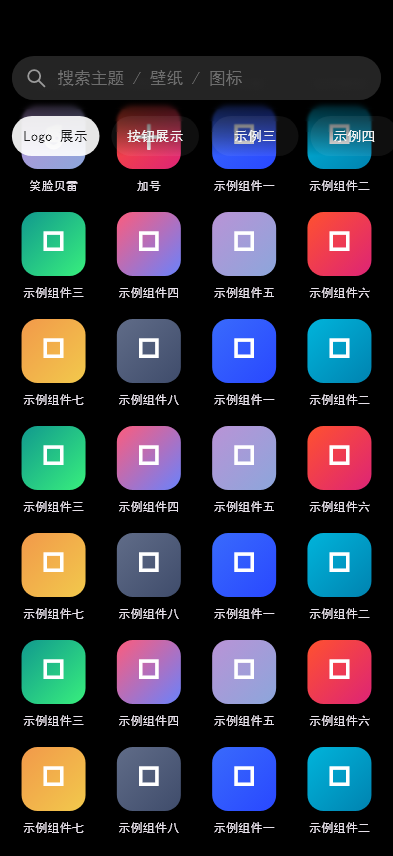
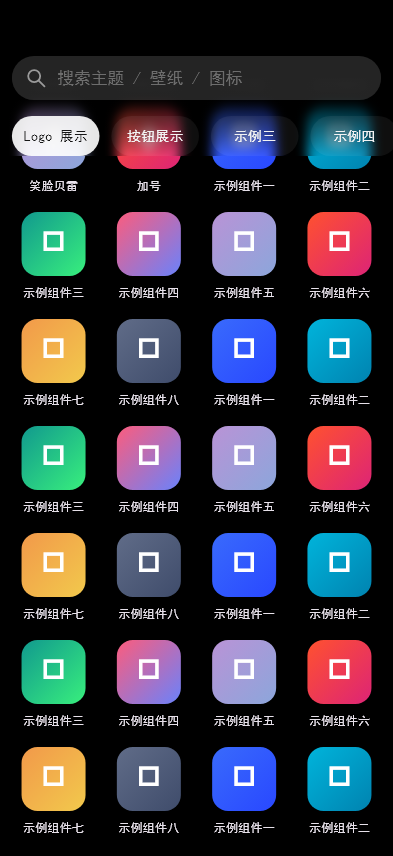
feat(topbar): 头部区材质改恒定 σ —— 整条栏均匀磨砂，糊到栏底才切回清晰
上一轮把实测 σ(y) 阶梯按 栏高/128.9 拉伸，结果顶部过糊、胶囊行附近已接近
锐利，与真机截图不符。用户提供的分类页截图（881×1920 亮/暗）实测：搜索栏行
与胶囊行后方的模糊强度**一致**，一直糊到栏底才切回清晰内容，没有「越往下越
清晰 / 到栏底渐隐」的过渡。

改动：
- 新增 `MiTopBar.uniformBlurBands(palette, height, {scale})`：头部区形态用
  **一段恒定 σ = 5.37dp**（栏顶实测值）铺满整条顶栏；深色配方仍按 scale 跳过
  被不透明叠色盖住的段（156dp 栏 → 0…77dp，零视觉差异）。
- `visibleBlurBands` 还原为无 scale 版，只服务纯标题形态（那条 σ(y) 阶梯是
  「我的 / 首页」录屏的实测规律，两形态各走各的）。
- 叠色梯度仍按比例随盒高拉伸。

验证：`dart analyze` 0 error；`flutter test` 111 项全绿。golden 仅
showcase_sticky_{light,dark}.png 与 adaptive_desktop_showcase.png 变化
（后者与上一轮比 max diff 5、137px>2，纯胶囊 AA）；静态 showcase_*.png 未变。
性能预算重标：分类页 6 层 / 53,953dp² → 2 层 / 71,294dp²。

diff --git a/lib/src/components/navigation/top_bar/top_bar.dart b/lib/src/components/navigation/top_bar/top_bar.dart
@@ -22,9 +22,13 @@ import 'top_bar_metrics.dart';
 /// 栏顶全强度模糊、越往下越锐利，栏底完全清晰。
 ///
 /// 材质是**盖在整条顶栏上的底**（不占布局高度）：无头部区时只到实测材质盒
-/// [MiTopBarMetrics.scrimHeight]（128.9dp）；有头部区时铺满整条顶栏，模糊段与
-/// 叠色按 `栏高 / 128.9` 等比拉伸 —— 头部区既然在顶栏内，就被顶栏同一条曲线
-/// 一起磨，而不是「零件各自一块玻璃、间隙与四周锐利」。
+/// [MiTopBarMetrics.scrimHeight]（128.9dp）；有头部区时铺满整条顶栏。
+///
+/// 两种形态的模糊规律不同，都是实测的：
+///  * **纯标题形态** → σ 沿 y 递减的阶梯（0…119dp 归零，见 [blurBands]）；
+///  * **头部区形态** → **整条栏一个恒定 σ**（[uniformBlurBands]）：分类页截图
+///    里搜索栏行与胶囊行后方的模糊强度一致，一直糊到栏底才切回清晰内容，
+///    没有「越往下越清晰」的过渡。头部区既然在顶栏内，整条栏就是同一块材质。
 ///
 /// 实现是 **8 段定 σ 阶梯**（[MiTopBarPalette.blurBands]）：每段
 /// `ClipRect → BackdropFilter(σ_i)`，σ_i 取实测 σ(y) 曲线在该段中点的值。
@@ -328,10 +332,10 @@ class MiTopBar extends StatelessWidget {
   ///    首版一致；
   ///  * **有头部区**：铺满**整条顶栏** —— 头部区在顶栏内，就该被顶栏的材质
   ///    一起盖住（否则搜索栏 / 胶囊之间与四周是锐利的内容，只有零件自己是
-  ///    玻璃，视觉上割裂）。此时 blurBands 与叠色梯度按
-  ///    `materialHeight / scrimHeight` **等比拉伸**，保持「顶部最糊、到栏底
-  ///    渐隐为锐利」的实测形状（拉伸是推导：参考录屏的顶栏不内嵌组件，
-  ///    155.7dp 以上的 σ 无可测样本）。
+  ///    玻璃，视觉上割裂）。这一形态的模糊是**恒定 σ**（见
+  ///    [uniformBlurBands]，实测自分类页截图：搜索栏行与胶囊行后方的模糊
+  ///    强度一致、糊到栏底才切回清晰）；叠色梯度是按盒高比例的 stop，随盒
+  ///    拉高自动等比拉伸。
   double materialExtent(BuildContext context) {
     if (!showSurface) return 0;
     if (!hasHeaderSlot) return MiTopBarMetrics.scrimHeight;
@@ -348,29 +352,50 @@ class MiTopBar extends StatelessWidget {
   /// 段从 8 段 / 119dp 降到 5 段 / 45.4dp，模糊面积 85,680 → 32,688 dp²
   ///（−62%）；每段在滚动时都要重算一次全宽高斯，这是丢帧的主因。
   /// 裁剪后段的 σ 仍取原段值（段变窄，σ 沿 y 的变化在 3~7dp 内可忽略）。
-  ///
-  /// [scale] 把整条曲线沿 y 等比拉伸（含不透明段下沿），用于「材质铺满带
-  /// 头部区的顶栏」—— 见 [materialExtent]。
   @visibleForTesting
-  static List<MiTopBarBlurBand> visibleBlurBands(
-    MiTopBarPalette palette, {
-    double scale = 1,
-  }) {
-    final opaque = palette.scrimOpaqueBottom * scale;
+  static List<MiTopBarBlurBand> visibleBlurBands(MiTopBarPalette palette) {
+    final opaque = palette.scrimOpaqueBottom;
     final bands = <MiTopBarBlurBand>[];
     for (final band in MiTopBarPalette.blurBands) {
       if (band.sigma < MiTopBarMetrics.minVisibleBlurSigma) continue;
-      final bandTop = band.top * scale;
-      final bandBottom = band.bottom * scale;
-      final top = bandTop > opaque ? bandTop : opaque;
-      if (bandBottom <= top) continue;
+      final top = band.top > opaque ? band.top : opaque;
+      if (band.bottom <= top) continue;
       bands.add(MiTopBarBlurBand(
         top: top,
-        height: bandBottom - top,
+        height: band.bottom - top,
         sigma: band.sigma,
       ));
     }
     return bands;
+  }
+
+  /// **头部区形态**的模糊段：整条栏**一个恒定 σ**，不随 y 衰减。
+  ///
+  /// 与纯标题形态的渐进阶梯不是一回事 —— 实测自分类页完整截图（881×1920，
+  /// s = 393/881）：搜索栏行与胶囊行后方的模糊强度**一致**，且一直糊到栏底
+  /// 才切回清晰内容；没有"越往下越清晰 / 到栏底渐隐"的过渡。头部区既然是
+  /// 顶栏的一部分，整条栏就该是同一块材质。
+  ///
+  /// σ 取 [MiTopBarPalette.blurSigma]（栏顶实测 5.37dp）。深色配方同样跳过
+  /// 被不透明叠色盖住的段（[MiTopBarPalette.scrimOpaqueBottom]，按
+  /// [scale] 缩放 —— 叠色盒被拉伸到整条栏时，实心段也跟着拉长）。
+  @visibleForTesting
+  static List<MiTopBarBlurBand> uniformBlurBands(
+    MiTopBarPalette palette,
+    double height, {
+    double scale = 1,
+  }) {
+    if (height <= 0) return const <MiTopBarBlurBand>[];
+    const sigma = MiTopBarPalette.blurSigma;
+    if (sigma < MiTopBarMetrics.minVisibleBlurSigma) {
+      return const <MiTopBarBlurBand>[];
+    }
+    final opaque = palette.scrimOpaqueBottom * scale;
+    final top = opaque >= height ? height : opaque;
+    if (top >= height) return const <MiTopBarBlurBand>[];
+    return <MiTopBarBlurBand>[
+      MiTopBarBlurBand(top: top, height: height - top, sigma: sigma),
+    ];
   }
 
   @override
@@ -427,13 +452,16 @@ class MiTopBar extends StatelessWidget {
                 frosted: !showSurface,
               ));
     // 材质层铺满整条顶栏（有头部区时）/ 只到实测盒高（纯标题形态）。
-    // 有头部区时整条曲线等比拉伸：顶部仍最糊、到栏底渐隐为锐利。
+    // 两种形态的模糊不是一条曲线：纯标题形态用实测的 σ(y) 渐进阶梯；头部区
+    // 形态按分类页截图实测——整条栏**一个恒定 σ**，糊到栏底再切回清晰。
     final materialHeight = materialExtent(context);
     final materialScale =
         materialHeight > 0 ? materialHeight / MiTopBarMetrics.scrimHeight : 1.0;
-    final bands = showSurface
-        ? visibleBlurBands(palette, scale: materialScale)
-        : const <MiTopBarBlurBand>[];
+    final bands = !showSurface
+        ? const <MiTopBarBlurBand>[]
+        : hasHeaderSlot
+            ? uniformBlurBands(palette, materialHeight, scale: materialScale)
+            : visibleBlurBands(palette);
 
     return SizedBox(
       // 顶部叠加的根：材质层是**盖在**整条顶栏上的底，不占布局高度 ——

diff --git a/test/top_bar_test.dart b/test/top_bar_test.dart
@@ -855,9 +855,13 @@ void main() {
       expect(
         blurLayers(),
         findsNWidgets(
-          MiTopBar.visibleBlurBands(MiTopBarPalette.dark, scale: scale).length,
+          MiTopBar.uniformBlurBands(
+            MiTopBarPalette.dark,
+            156.0,
+            scale: scale,
+          ).length,
         ),
-        reason: '材质随栏高等比拉伸后，绘制段数与拉伸后的裁剪结果一致',
+        reason: '头部区形态是整条栏一个恒定 σ 的材质段',
       );
       expect(_scrimDark, findsOneWidget);
       expect(
@@ -867,7 +871,7 @@ void main() {
       );
     });
 
-    testWidgets('材质铺满整条顶栏：搜索栏与胶囊行都落在磨砂段内（统一材质）', (tester) async {
+    testWidgets('材质铺满整条顶栏：搜索栏与胶囊行落在同一块均匀磨砂里', (tester) async {
       _size(tester);
 
       await tester.pumpWidget(harness(
@@ -884,18 +888,36 @@ void main() {
       expect(scrim.top, 0);
       expect(scrim.height, closeTo(156.0, 0.01));
 
-      // 头部区（56…156）内每一段的 σ 都来自实测曲线按 156/128.9 拉伸后的值，
-      // 且栏底 σ 已经很小（渐隐为锐利，与参考录屏同形状）
-      final bands = MiTopBar.visibleBlurBands(
+      // 模糊是**恒定 σ**：整条栏只有一段，σ 取栏顶实测值，且覆盖到栏底
+      // （对照分类页截图：搜索栏行与胶囊行后方的模糊强度一致，糊到栏底
+      //  才切回清晰内容，没有「越往下越清晰」）。
+      const scale = 156.0 / MiTopBarMetrics.scrimHeight;
+      final bands = MiTopBar.uniformBlurBands(
         MiTopBarPalette.dark,
-        scale: 156.0 / MiTopBarMetrics.scrimHeight,
+        156.0,
+        scale: scale,
       );
-      expect(bands.last.sigma, lessThan(1.0), reason: '栏底渐隐为锐利');
+      expect(bands, hasLength(1));
+      expect(bands.single.sigma, MiTopBarPalette.blurSigma);
       expect(
-        bands.last.bottom,
-        closeTo(109 * 156 / MiTopBarMetrics.scrimHeight, 0.01),
-        reason: 'σ 0.30 的尾段被 minVisibleBlurSigma 剔除，可见段止于 109dp 拉伸位',
+        bands.single.bottom,
+        closeTo(156.0, 0.01),
+        reason: '一直糊到栏底',
       );
+      // 深色配方仍跳过被不透明叠色盖住的段（按同一比例拉伸）
+      expect(
+        bands.single.top,
+        closeTo(
+          MiTopBarPalette.dark.scrimOpaqueBottom * scale,
+          0.01,
+        ),
+      );
+
+      // 纯标题形态不受影响：仍是实测渐进阶梯（多段、σ 递减）
+      final ladder = MiTopBar.visibleBlurBands(MiTopBarPalette.dark);
+      expect(ladder.length, greaterThan(1));
+      expect(ladder.first.sigma, lessThanOrEqualTo(MiTopBarPalette.blurSigma));
+      expect(ladder.last.sigma, lessThan(ladder.first.sigma));
     });
 
     testWidgets('header 插槽：高度取 preferredSize，左右同 headerInset', (tester) async {
@@ -1144,13 +1166,12 @@ void main() {
     testWidgets('顶栏自己画材质时内置组件不再自绘 backdrop（整条栏只糊一次）',
         (tester) async {
       _size(tester);
-      const scale = 156.0 / MiTopBarMetrics.scrimHeight;
       Finder barBlurs() => find.descendant(
             of: find.byType(MiTopBar),
             matching: find.byType(BackdropFilter),
           );
 
-      // 开材质（默认）：零件交出磨砂，全栏只剩材质那几段
+      // 开材质（默认）：零件交出磨砂，全栏只剩材质那段
       await tester.pumpWidget(harness(
         title: null,
         showBack: false,
@@ -1168,10 +1189,8 @@ void main() {
       );
       expect(
         barBlurs(),
-        findsNWidgets(
-          MiTopBar.visibleBlurBands(MiTopBarPalette.dark, scale: scale).length,
-        ),
-        reason: '全栏模糊层数 = 材质段数，没有零件私货',
+        findsOneWidget,
+        reason: '全栏只剩一段恒定 σ 的材质模糊，没有零件私货',
       );
 
       // 关材质：零件各自带 backdrop（旧形态，仅作对照）

diff --git a/test/perf_budget_test.dart b/test/perf_budget_test.dart
@@ -60,13 +60,13 @@ void main() {
     expect(home.area, lessThanOrEqualTo(82000), reason: '首页 $home');
 
     final showcase = await measure(tester, const Size(768, 1280), tab: '分类');
-    // 顶栏 5 段（材质铺满 156dp，深色跳过不透明段后剩 5 段）+ 导航栏 1。
-    // 2026-10-17 起分类页改用顶栏的统一材质：搜索栏 / 胶囊行不再各自挂
-    // backdrop，改为整条头部区一次成糊 —— 层数比「零件各自玻璃」形态多，
-    // 但那是「间隙与四周锐利」的旧形态被否掉的代价，面积仍在预算内。
-    // 亮色配方没有实心段可省，是全 7 段材质 + 导航 1 = 8 层（本用例只测深色）。
-    expect(showcase.count, lessThanOrEqualTo(6), reason: '分类页 $showcase');
-    expect(showcase.area, lessThanOrEqualTo(56000), reason: '分类页 $showcase');
+    // 顶栏材质 **1 段恒定 σ**（铺满 156dp；深色跳过被不透明叠色盖住的
+    // 0…77dp）+ 导航栏 1 = 2 层。搜索栏 / 胶囊行不再各自挂 backdrop，
+    // 换成整条头部区一块均匀材质 —— 层数比旧形态少，但模糊面积更大
+    // （材质本来就该盖满整条栏）。
+    // 亮色配方没有实心段可省，是 1 段 156dp 全高 + 导航 1（本用例只测深色）。
+    expect(showcase.count, lessThanOrEqualTo(2), reason: '分类页 $showcase');
+    expect(showcase.area, lessThanOrEqualTo(72000), reason: '分类页 $showcase');
 
     final mine = await measure(tester, const Size(768, 1280), tab: '我的');
     expect(mine.count, lessThanOrEqualTo(6), reason: '我的 $mine');

diff --git a/CHANGELOG.md b/CHANGELOG.md
@@ -18,11 +18,12 @@
 
 ### Changed
 
-- **顶栏材质统一：头部区（搜索栏 / 胶囊行）共用顶栏那条渐进磨砂**（2026-10-17 用户反馈「如果在顶部导航栏内，就应该有顶部导航栏的模糊效果」）
-  - 材质层从「标题区里的 128.9dp 盒子」改成**盖在整条顶栏上的底**：有头部区时高度 = `occupiedHeight`，模糊段与叠色按 `栏高 / scrimHeight` 等比拉伸（顶部最糊、到栏底渐隐，形状沿用实测曲线；拉伸属推导 —— 参考录屏的顶栏不内嵌组件，155.7dp 以上无实测样本）。高度不再被材质盒推高（旧的「材质 + 头部」形态会算成 128.9 + 156 = 284.9dp，现在就是 156）
-  - `MiSearchBar` / `MiPillTabBar` 新增 `frosted`（默认 true）：`MiTopBar` 自己画材质时自动给内置组件传 `false`，全栏只糊一次。此前是「零件各自 σ=28 玻璃 + 两者间隙与四周锐利」，与顶栏的 σ=5.37 曲线不是一套
-  - 分类页去掉 `showSurface: false`，改由顶栏统一供材质；静态截图基本不变（页底与叠色同色，仅胶囊填充差 1~2 级），滚动时才看得出「整条头部区一起被磨开」
-  - 性能预算随之更新：深色平板分类页模糊层 3 → 6（材质 5 段 + 导航 1）、面积 53,953dp²（仍在 56,000 预算内）；亮色无实心段可省 → 7 段材质 + 导航 1
+- **顶栏材质统一：头部区（搜索栏 / 胶囊行）共用顶栏那条材质**（2026-10-17 用户两次反馈：先「在导航栏内就该有导航栏的模糊效果」，后附真机截图「模糊效果应该这样才对」）
+  - 材质层从「标题区里的 128.9dp 盒子」改成**盖在整条顶栏上的底**：有头部区时高度 = `occupiedHeight`，不占布局高度（旧的「材质 + 头部」形态会算成 128.9 + 156 = 284.9dp，现在就是 156）
+  - **头部区形态的模糊是恒定 σ = 5.37dp**（新增 `MiTopBar.uniformBlurBands`）：实测自分类页截图（881×1920）—— 搜索栏行与胶囊行后方的模糊强度一致，一直糊到栏底才切回清晰内容，**没有**「越往下越清晰 / 到栏底渐隐」的过渡（那是纯标题形态的实测规律，两种形态各走各的）。叠色梯度仍按实测比例随盒高拉伸
+  - `MiSearchBar` / `MiPillTabBar` 新增 `frosted`（默认 true）：`MiTopBar` 自己画材质时自动给内置组件传 `false`，整条栏只糊一次。此前是「零件各自 σ=28 玻璃 + 两者间隙与四周锐利」，与顶栏材质不是一套
+  - 分类页去掉 `showSurface: false`，改由顶栏统一供材质；静态截图基本不变（页底与叠色同色，仅胶囊填充差 1~2 级），滚动时才看得出「整条头部区一块材质」
+  - 性能预算：深色平板分类页 **6 层 / 53,953dp² → 2 层 / 71,294dp²**（材质恒定 σ 只剩 1 段 + 导航 1；层数大减、面积因盖满整条栏而增大，并在跳过被不透明叠色盖住的 0…77dp 之后）
 - **分类页的搜索栏 + 胶囊标签行改由 `MiTopBar` 内部产出**：页面里手写的「吸顶 `Column`（搜索栏 + 16dp + 胶囊行）」、`_headerHeight`（`状态栏 + 44.1 + 16 + 39.9`）以及两个组件的 `new` 全部删除，改为 `MiTopBar(showSurface: false, searchHint: …, tabs: …, selectedTab: …, onTabChanged: …)` —— 页面只给数据，`MiSearchBar` / `MiPillTabBar` 由顶栏自己构造，滚动内容让位取 `bar.occupiedHeight(context) + headerContentGap`。渲染结果与迁移前**逐像素一致**（`doc/preview/showcase_*.png` 未变），吸顶/透射/点按行为不变；`showcase_sticky_test` 追加「搜索栏与胶囊行必须是 `MiTopBar` 的子树」「内容让位 = 168dp」两条断言
 - **平板档（medium）改铺内容舞台**（2026-10-17 实机反馈修正）：原先 medium 按 1x 画 393×856 小手机居中，平板竖屏（650×1138）上画面只占 64% 屏高、上下各留 170/240px 纯黑，内容列数也停在手机档。现与 expanded 同策略：画面宽 = 可用宽（上限 1000）、高 = 可用高，四周留 24 —— 平板 650×1138 即 602×1090 舞台，主题卡 3→4 列。仍然只缩不放（`min(1, …)`），不靠放大手机来填满，避免 1dp 实测值失去物理意义。`MockPage` 页边距在非 compact 档统一 24。
 

diff --git a/.workbuddy/memory/MEMORY.md b/.workbuddy/memory/MEMORY.md
@@ -25,7 +25,7 @@
   - **头部区（2026-10-17，两轮）**：顶栏 = 标题区（定高）+ 头部区。**头部区的内容由顶栏自己产出** —— 声明式入参 `searchHint` / `onSearchTap` → 内部构造 `MiSearchBar`；`tabs` / `selectedTab` / `onTabChanged` → 内部构造 `MiPillTabBar`（明暗配方用顶栏解析后的 `mode` 下发，`MiPillTabBar.themeMode` 默认是 dark 必须显式覆盖）。换皮才用同名插槽 `searchBar` / `tabBar`，`header`（`PreferredSizeWidget`）是整块自定义头部。互斥由构造期断言保证：`header` 与搜索栏/胶囊行、`searchBar`↔`searchHint`、`tabBar`↔`tabs`。判定口径 = `hasSearchBar` / `hasTabBar` / `hasHeaderSlot`（声明式 + 插槽合并）。几何走 `MiTopBarMetrics`：`headerTopInset` 56（`headerTopInsetFor(safeAreaTop)` 取大者）、`searchBarGap` 16、`headerContentGap` 12、`headerInset` 11.9、`searchBarSlotHeight` 44.1、`tabBarSlotHeight` 39.9（后两个与 `MiSearchBarMetrics.barHeight` / `MiPillTabMetrics.pillHeight` 同值，跨层一致由测试钉住）。
     - **插槽高度是声明值**：组件按它排版，宿主用 `bar.occupiedHeight(context)` 给滚动内容让位 —— 两侧同源才不会错位。
     - **「纳入组件内部统一渲染」= 顶栏自产组件，不是让页面 new 好传进来**（2026-10-17 用户反馈命中）：只给插槽时页面仍持有 `MiSearchBar` / `MiPillTabBar`，用户判定「没放进顶栏」。收口手段 = 声明式入参（数据进、组件出），插槽降级为逃生口。
-    - **材质也在顶栏这一层统一**（同日第三轮）：材质层是**盖在整条顶栏上的底**（`Stack` + `Positioned(height: materialExtent)`），不占布局高度 —— 无头部区时 128.9，有头部区时 = `occupiedHeight`，模糊段与叠色按 `栏高/scrimHeight` 等比拉伸。配套 `titleExtent` 在「有头部区且无标题」时为 **0**（否则材质盒会把搜索栏整体下推 128.9）。内置组件由顶栏传 `frosted: false` 关掉自绘 backdrop —— 全栏只糊一次；插槽传入的第三方组件不受控。
+    - **材质也在顶栏这一层统一**（同日第三、四轮）：材质层是**盖在整条顶栏上的底**（`Stack` + `Positioned(height: materialExtent)`），不占布局高度 —— 无头部区时 128.9，有头部区时 = `occupiedHeight`。**两种形态的模糊规律不同，都是实测**：纯标题形态 = σ(y) 递减阶梯（`visibleBlurBands`）；**头部区形态 = 整条栏恒定 σ 5.37**（`uniformBlurBands`，2026-10-17 用户截图实测：搜索栏行与胶囊行后方强度一致、糊到栏底才切回清晰，**没有**"越往下越清晰/到栏底渐隐"）。叠色梯度是比例 stop，盒子拉高自动拉伸。配套 `titleExtent` 在「有头部区且无标题」时为 **0**（否则材质盒会把搜索栏整体下推 128.9）。内置组件由顶栏传 `frosted: false` 关掉自绘 backdrop —— 全栏只糊一次。
     - **胶囊行必须满宽**（不套 `headerInset`）：它自带 11.9 `edgeInset` 且要横向出血滚动，套内边距会把末尾胶囊多裁一截；搜索栏才吃 `headerInset`。
     - `showSurface: false` 只剩「零件各自玻璃」的旧形态（逃生用）；分类页现在**开着**材质。
   - 折叠：大标题**属于滚动内容**（质心位移 = 滚动位移，1:1 上移）+ 独立淡出曲线（0→19.97dp 归零），紧凑标题 19.97→29.31dp 才淡入，两段不重叠。

diff --git a/.workbuddy/memory/2026-10-17.md b/.workbuddy/memory/2026-10-17.md
@@ -293,3 +293,31 @@ searchHint, tabs, selectedTab, onTabChanged)`，页面不再出现 `MiSearchBar`
 （例：y=90 处 σ 由 1.85 拉伸到 ≈3.9）；若哪天真机看着「头部区糊过头」，改成
 「不拉伸、只延长材质盒」即可（`materialScale` 恒 1），或把 `scale` 收窄到
 `materialHeight / 119`。
+
+## 顶栏材质（第四轮）：头部区改恒定 σ，不再用渐进阶梯
+
+**触发**：用户贴了两张真机截图（分类页亮/暗，881×1920），说「模糊效果应该这样才对」。
+实测截图后结论变了：**搜索栏行与胶囊行后方的模糊强度一致，一直糊到栏底才切回清晰
+内容**；没有「越往下越清晰 / 到栏底渐隐」。上一轮把实测 σ(y) 阶梯按 `栏高/128.9`
+拉伸的做法（顶部最糊、栏底几乎锐利）是错的。
+
+截图实测要点（881×1920，s = 393/881 = 0.44608）：
+* 搜索栏顶 120px = 53.5dp、底 219px = 97.7dp；胶囊行 250…330px = 111.5…147dp；
+* hero 图底缘 410px = 183dp —— 顶栏材质区（156dp）整个落在 hero 里；
+* hero 里的「Simply Gorgeous」水印与分页点是**锐利**的，说明那张 hero 本身就是
+  一张「模糊壁纸 + 锐利文字」的合成图 —— 所以参考页的模糊强度无法直接反解成
+  顶栏 σ，只能确认「整条栏均匀」这条定性事实。σ 仍取栏顶实测 5.37dp。
+
+**改动**（`top_bar.dart`）
+* 新增 `@visibleForTesting static uniformBlurBands(palette, height, {scale})`：
+  整条栏**一段**恒定 σ = `MiTopBarPalette.blurSigma`；深色配方同样按 scale 跳过
+  被不透明叠色盖住的部分（156dp 栏 → 0…77dp）。
+* `visibleBlurBands` 还原成无 `scale` 的版本（阶梯只服务纯标题形态）。
+* build 分支：有头部区走 `uniformBlurBands`，否则走 `visibleBlurBands`。
+
+**验证**：`dart analyze` 0 error；`flutter test` 111 项全绿。golden 只有三张变：
+`showcase_sticky_{light,dark}.png`（滚动态，本轮新增）与
+`adaptive_desktop_showcase.png`（与上一轮比 max diff 5、仅 137px>2 = 胶囊 AA）。
+静态 `showcase_{light,dark}.png` **再次未变**（页底与叠色同色）。
+性能预算重标：深色平板分类页 **6 层 / 53,953dp² → 2 层 / 71,294dp²**
+（恒定 σ 只剩 1 段 + 导航 1；层数大减但面积因盖满整条栏而增大）。

diff --git a/README.md b/README.md
@@ -64,10 +64,10 @@ log(S₁/S₀) = −2π²σ²f²」两种独立方法交叉验证。
 **材质也在顶栏这一层统一**：开着 `showSurface`（默认）时，磨砂 + 叠色铺满
 **整条顶栏**（含头部区），内置的搜索栏 / 胶囊行随之关掉自绘的 backdrop
 （`frosted: false`）—— 整条栏只糊一次，网格从后面滚过时搜索栏、胶囊行、以及
-两者之间与四周的空隙都在同一条渐进曲线下被磨开，越往上越糊、到栏底渐隐。
-曲线是实测 σ(y) 按 `栏高 / 128.9` 等比拉伸的（拉伸属推导：参考录屏的顶栏
-不内嵌组件，155.7dp 以上无实测样本）。`showSurface: false` 才回到「零件各自
-玻璃」的旧形态。
+两者之间与四周的空隙都落在同一块材质里。头部区形态的模糊是**恒定 σ**
+（5.37dp，实测自分类页截图：搜索栏行与胶囊行后方的强度一致，一直糊到栏底才
+切回清晰内容），与纯标题形态那条「顶部最糊、向下递减」的阶梯是两套实测规律。
+`showSurface: false` 才回到「零件各自玻璃」的旧形态。
 
 下图每格分别是：① 纯材质形态（标题不传，滚动 96dp → 头像滑进栏内被抹开）、
 ② 顶层页（无圆钮、首行搜索栏 168.5dp）、③ 次级页（带圆钮、首行卡片 183dp）、
@@ -88,8 +88,8 @@ log(S₁/S₀) = −2π²σ²f²」两种独立方法交叉验证。
 <img src="doc/preview/showcase_light.png" width="200" alt="浅色组件展示页" /> <img src="doc/preview/showcase_dark.png" width="200" alt="深色组件展示页" />
 
 卷起来看吸顶头部（滚动 150dp）：网格从搜索栏 / 胶囊行后方经过，整条头部区在
-**顶栏同一条渐进磨砂**下一起被磨开，栏底渐隐回锐利 —— 搜索栏、胶囊行与它们
-之间的空隙不再是「各自一块玻璃、中间夹着锐利内容」：
+**同一块均匀磨砂**下一起被磨开，到栏底切回清晰 —— 搜索栏、胶囊行与它们之间
+的空隙不再是「各自一块玻璃、中间夹着锐利内容」：
 
 <img src="doc/preview/showcase_sticky_light.png" width="200" alt="浅色分类页吸顶材质" /> <img src="doc/preview/showcase_sticky_dark.png" width="200" alt="深色分类页吸顶材质" />
 
